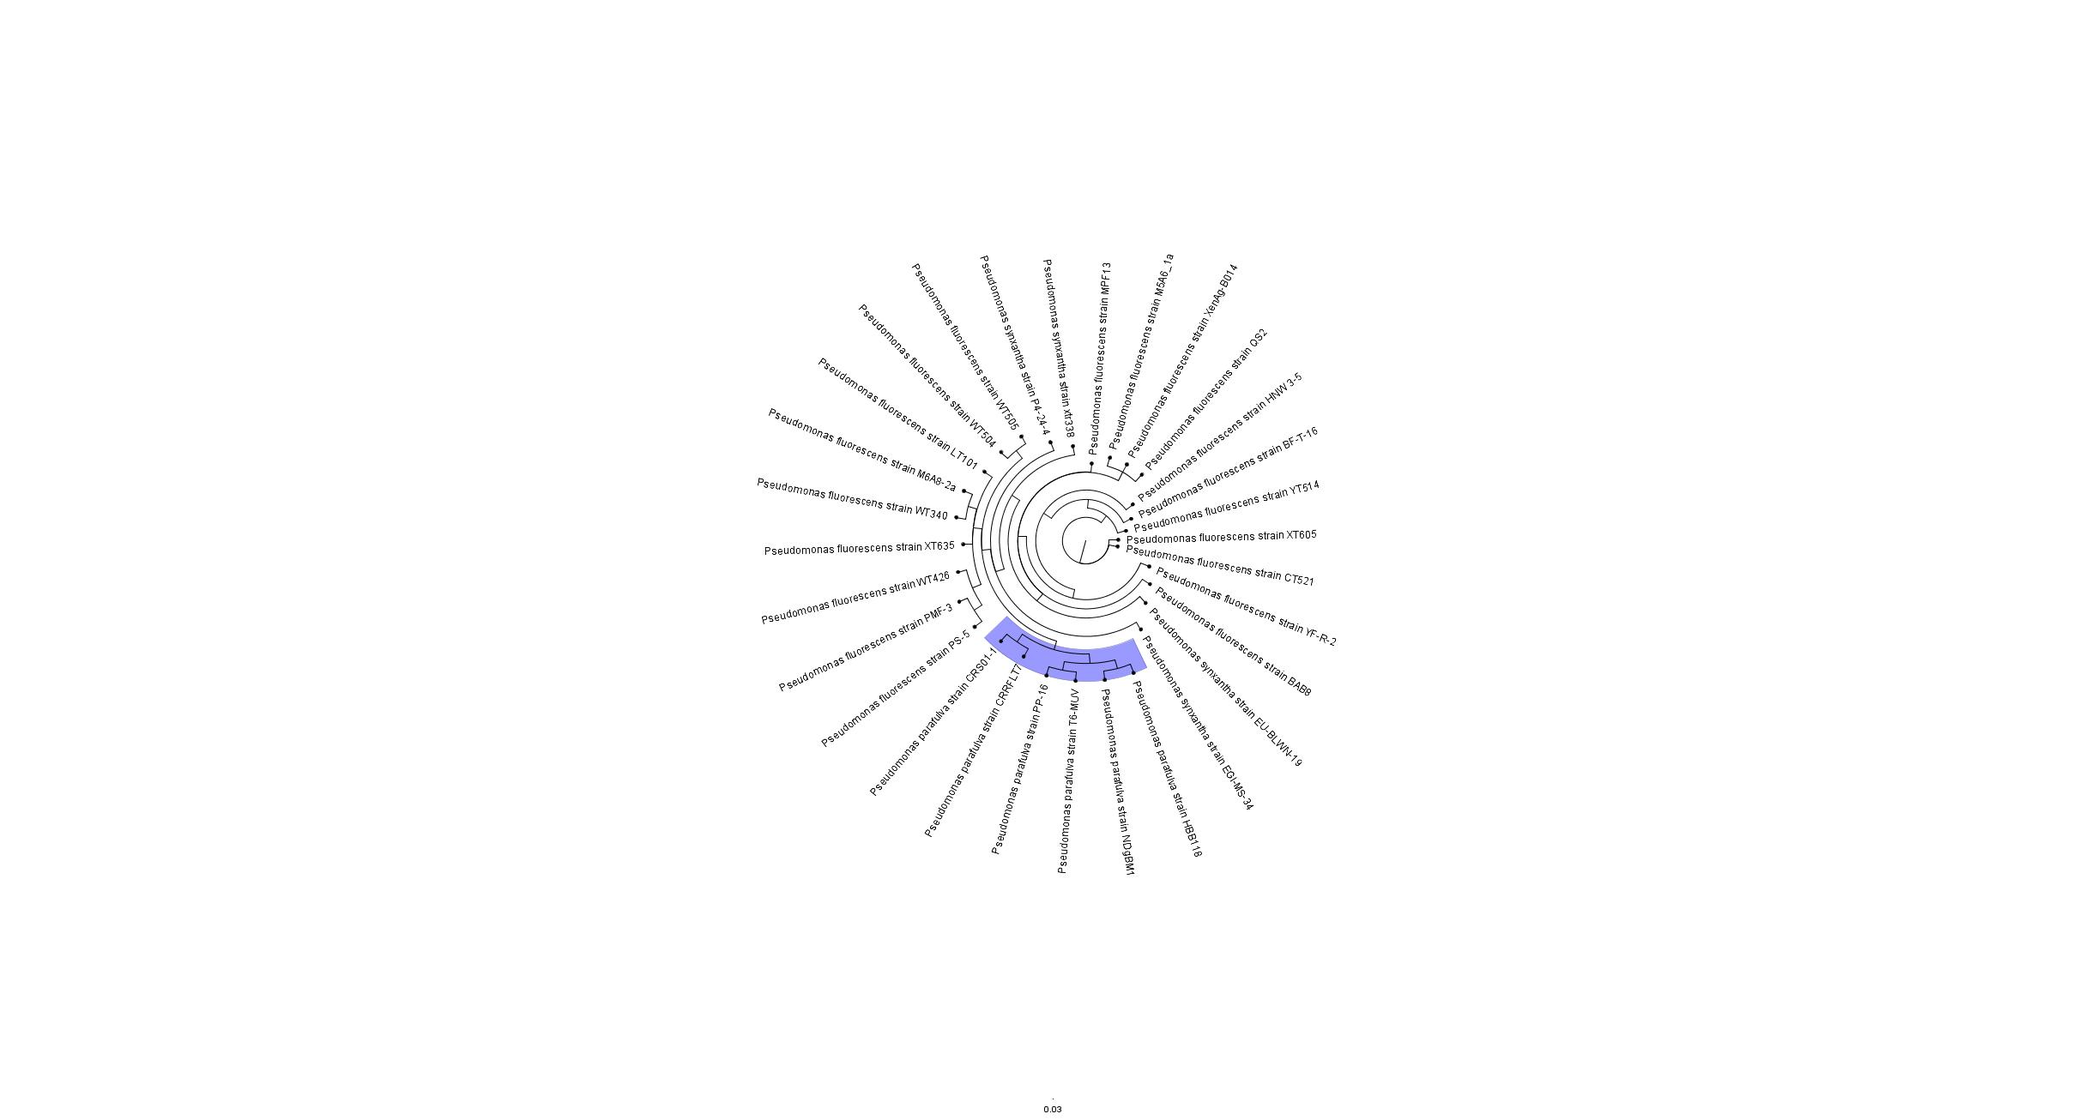
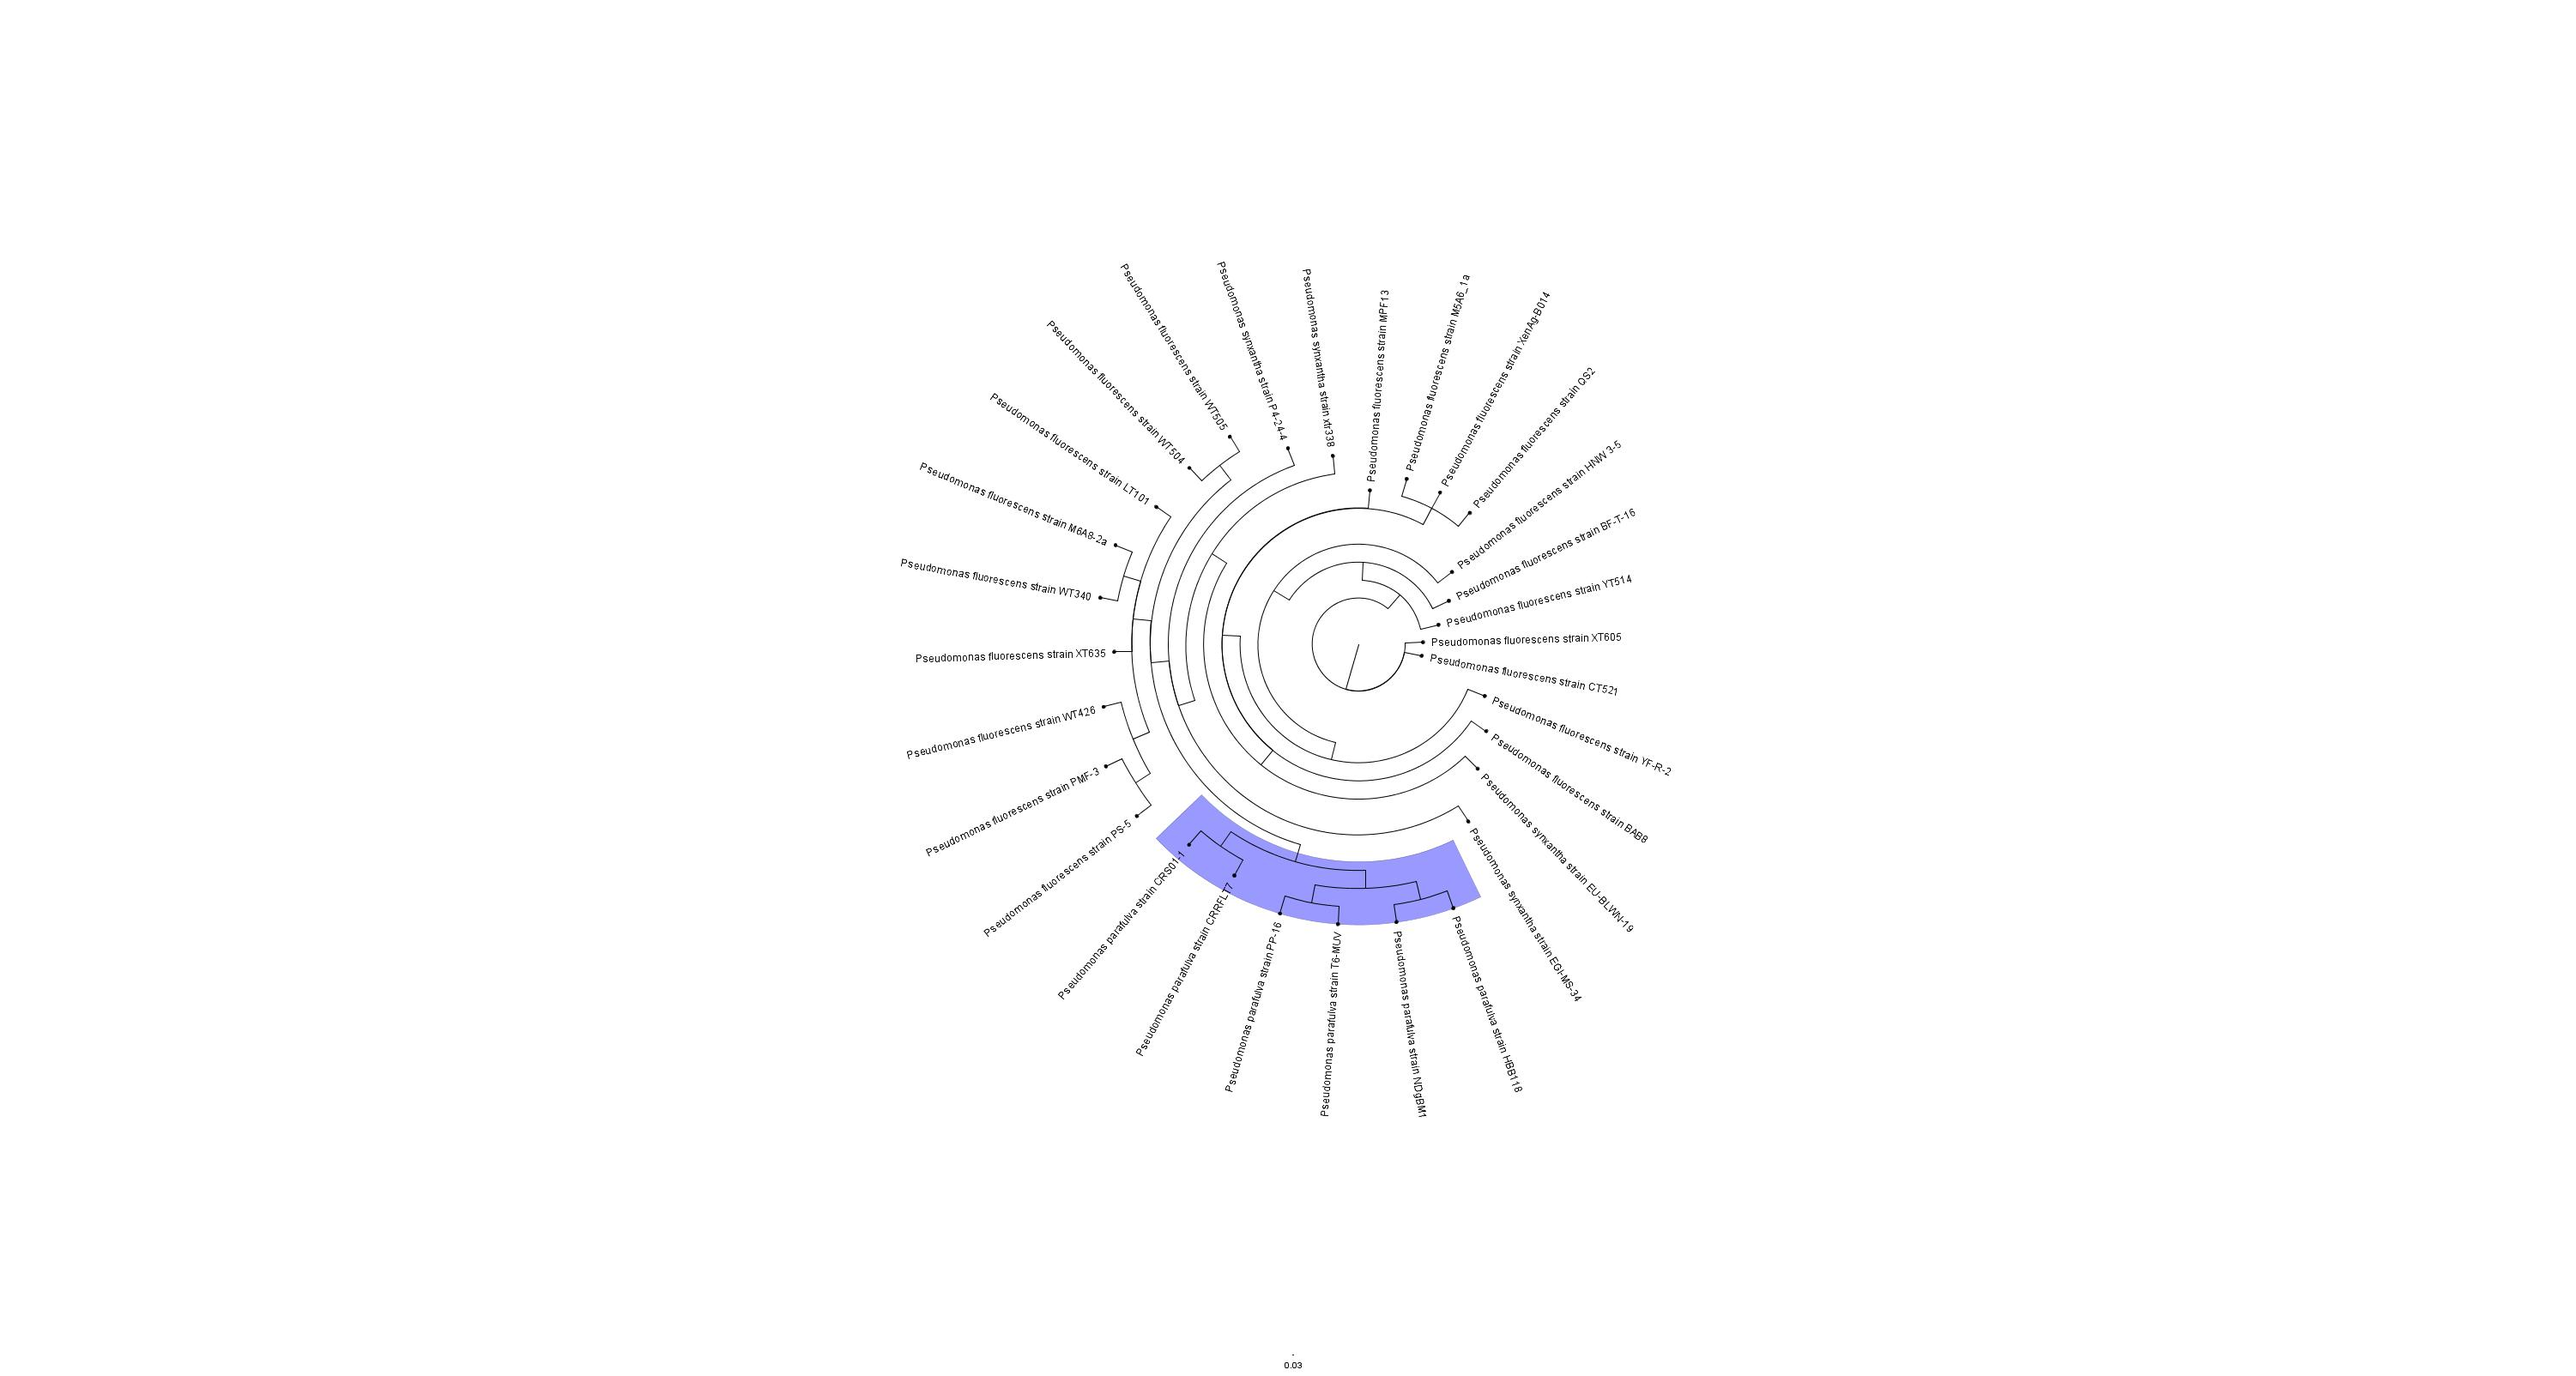
removed circle tree due to sizing

Changed region(s): [[0.3733, 0.2144, 0.6222, 0.7963], [0.3733, 0.5819, 0.4044, 0.6126]]

diff --git a/final_report.md b/final_report.md
@@ -81,8 +81,6 @@ FigTree was used to then visualize the MrBayes tree readout. The program uses th
 ```
 
  ![Pseudomonas 16s Equal Tree](images/pseudo-16s-bayes-tree-anno.jpg)
- 
- ![Pseudomonas 16s Circle Tree](images/pseudo-16s-bayes-tree-anno-circle.jpg)
 
 Because the average standard deviation of split frequencies is **σ << 0.1**, we can determine that there is a low level of divergence between samples. This means that the model was stable in converging and that we can generally assume that there is strong evidence for the overall phylogenetic relationship between the samples.
 We can also determine that the data was not undersampled based on all of the parameters converging on a PSRF of 1.0. 
